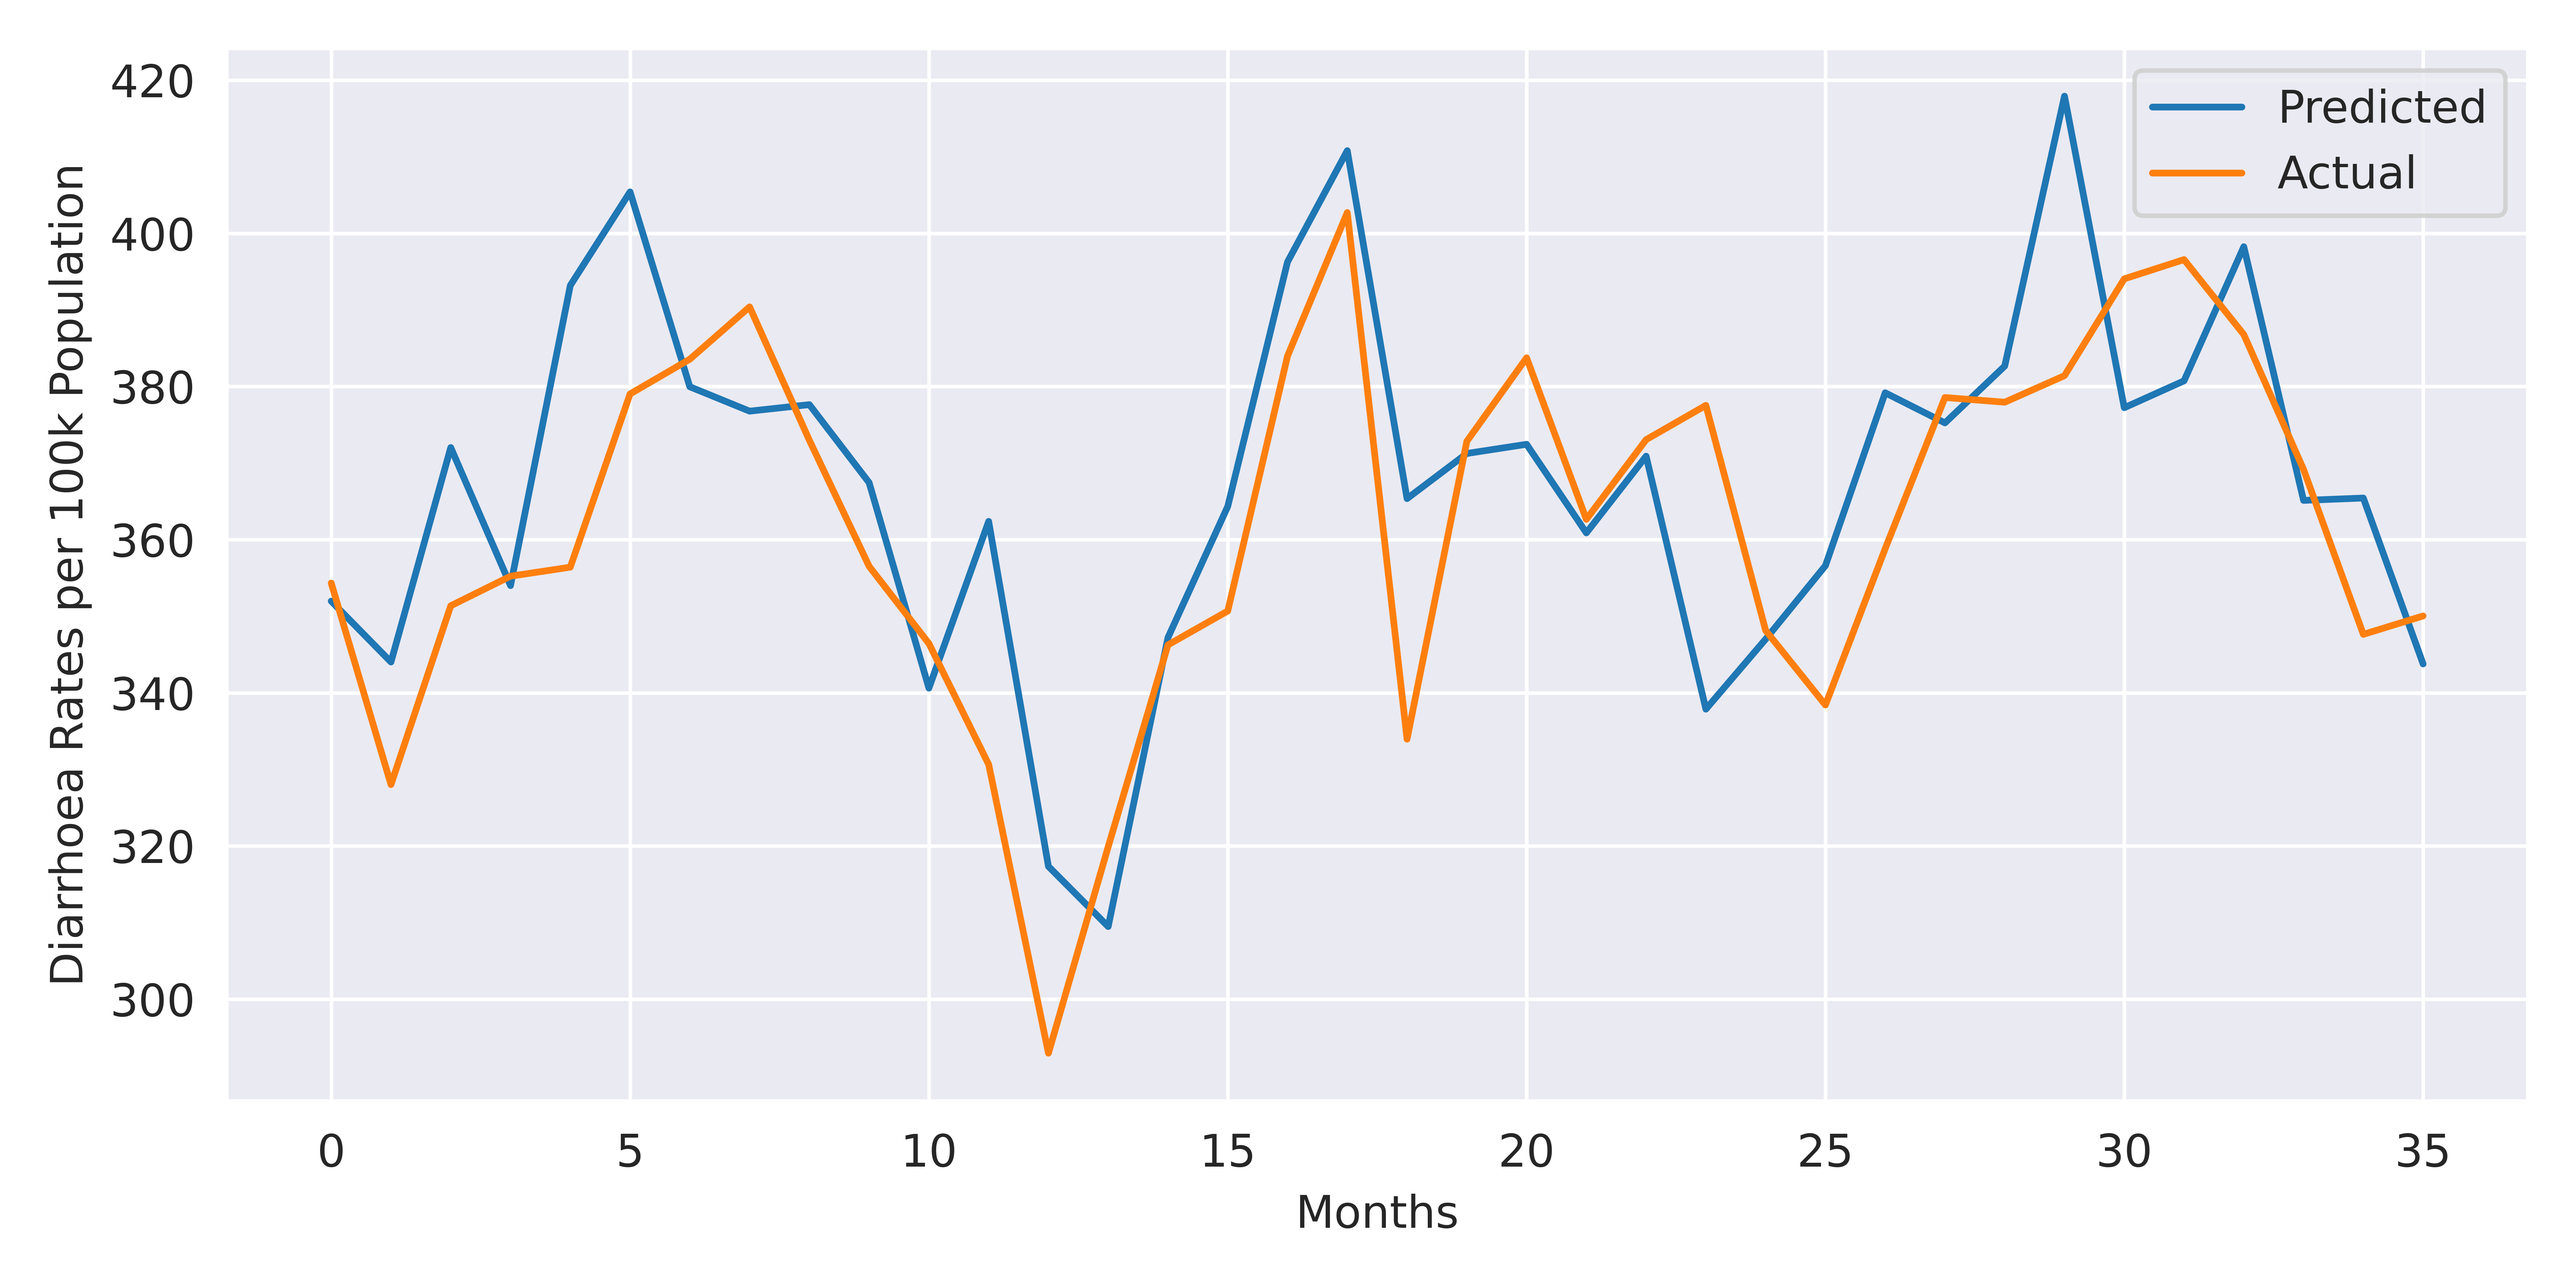
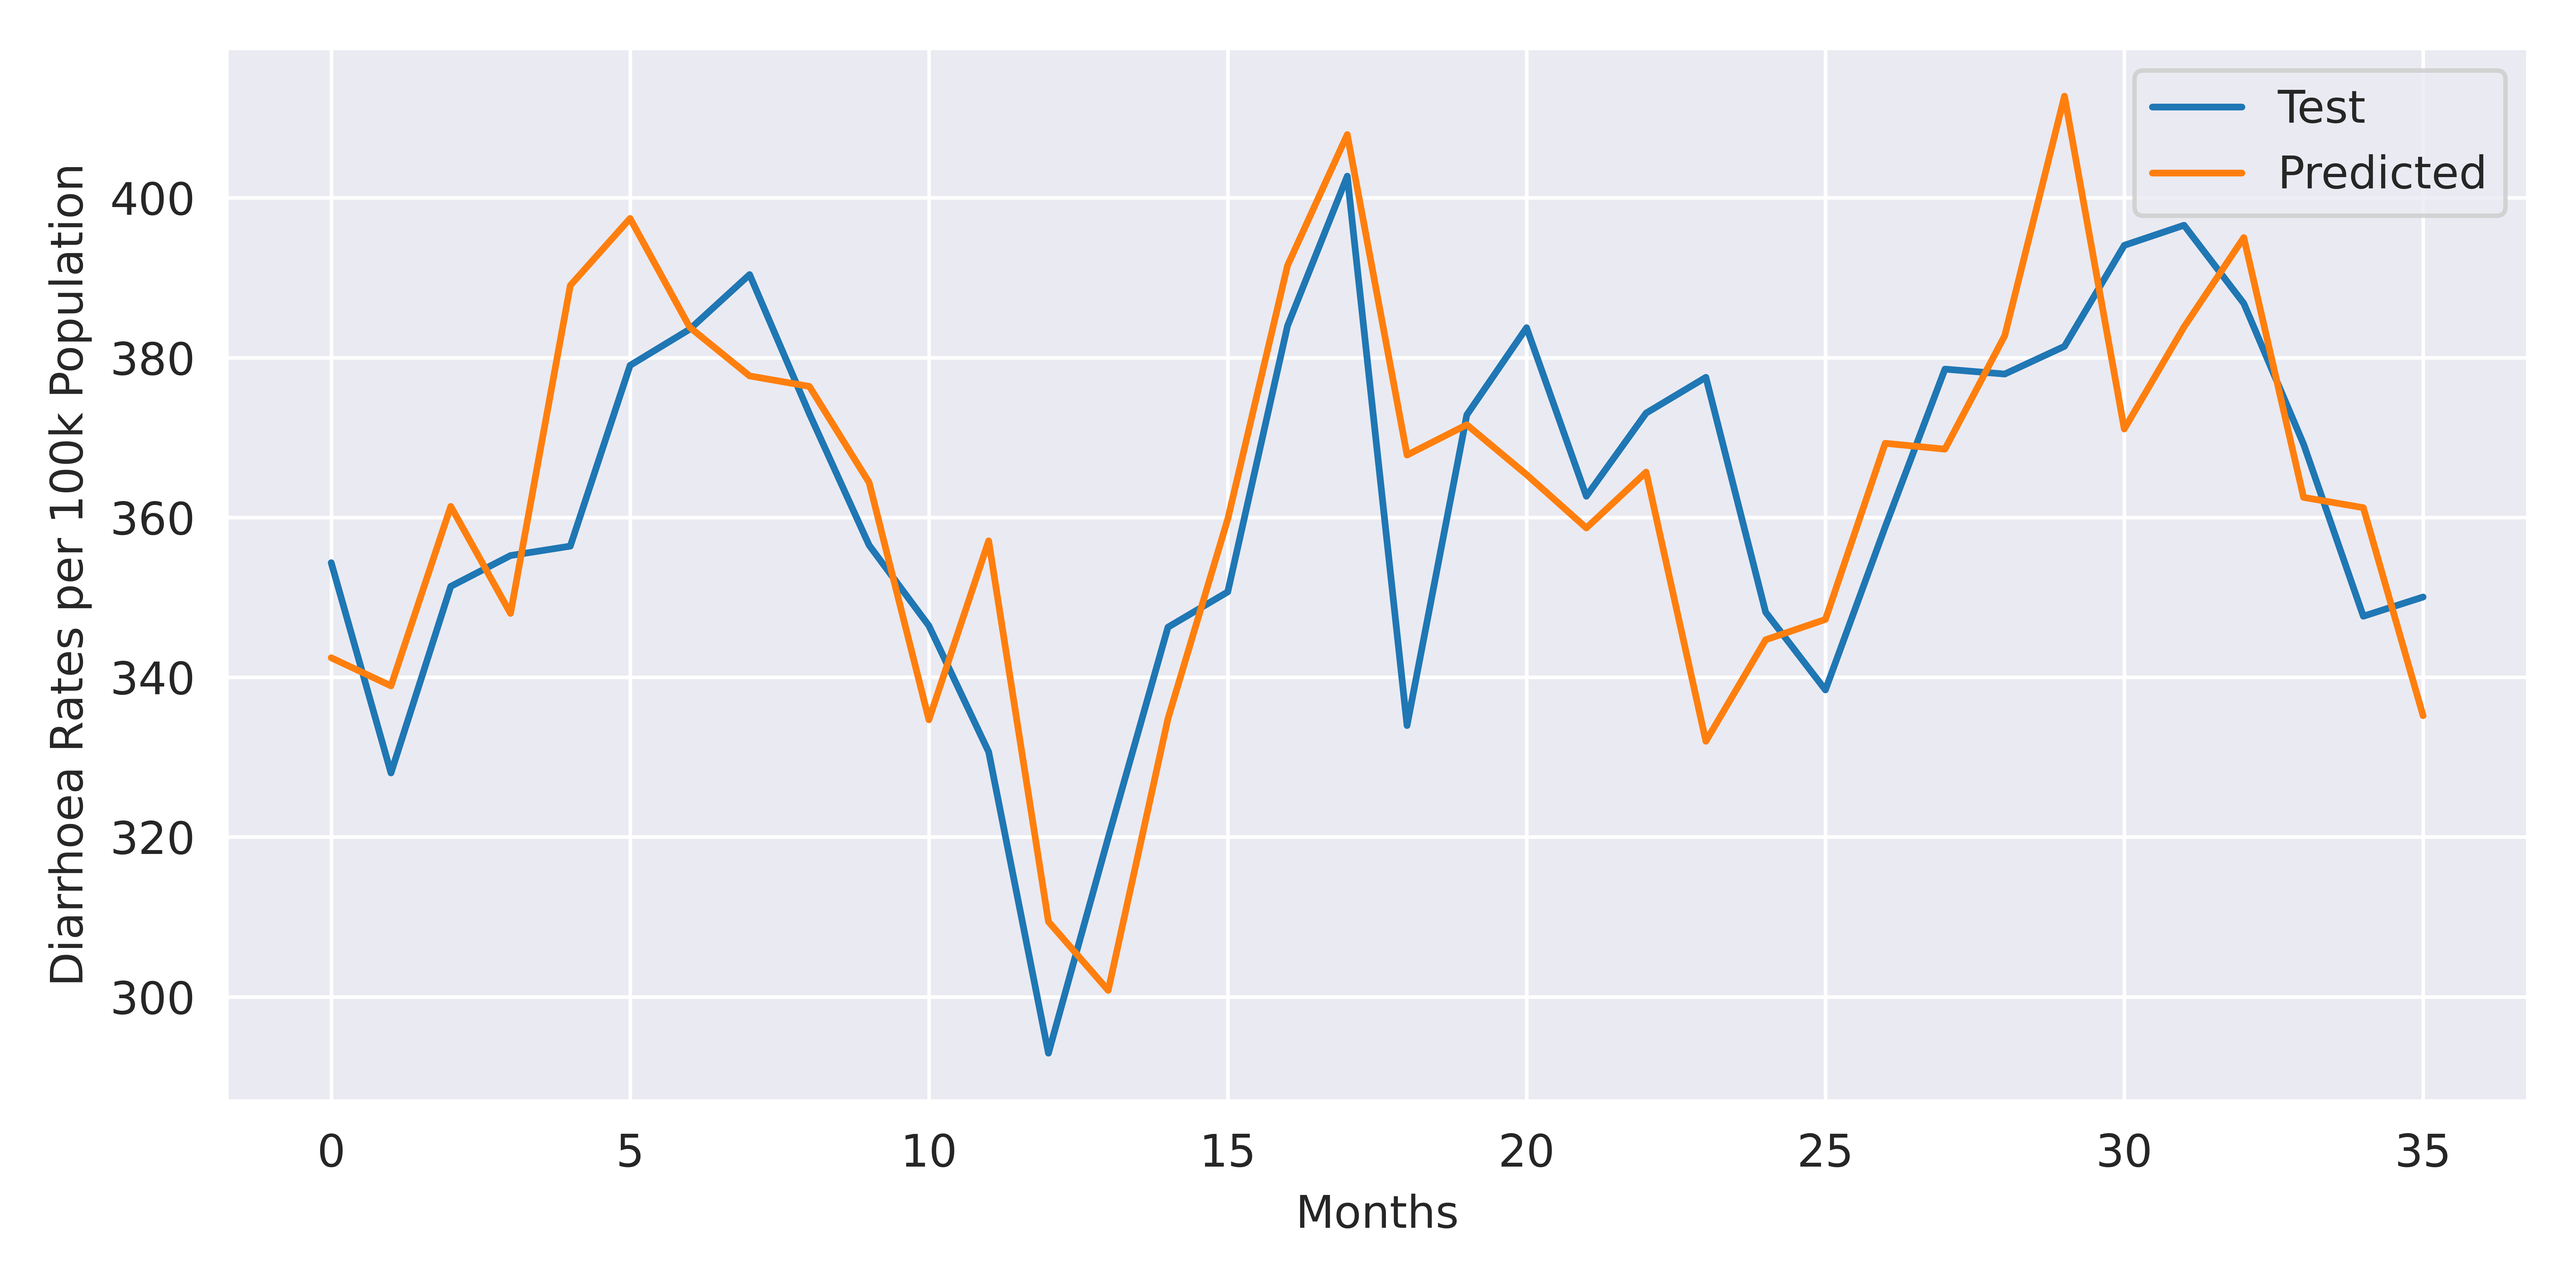
Improved SARIMA figures

diff --git a/thai_binh_multi_sarimax.py b/thai_binh_multi_sarimax.py
@@ -3,8 +3,12 @@ import warnings
 import itertools
 import numpy as np
 import matplotlib.pyplot as plt
+import seaborn as sns
 warnings.filterwarnings("ignore")
-plt.style.use('fivethirtyeight')
+plt.style.use('seaborn-darkgrid')
+plt.rcParams['figure.figsize'] = [8.0, 4.0]
+plt.rcParams['font.size'] = 10
+sns.set_style("darkgrid")
 
 import pandas as pd
 pd.set_option('display.expand_frame_repr', False)
@@ -27,7 +31,6 @@ matplotlib.rcParams['axes.labelsize'] = 14
 matplotlib.rcParams['xtick.labelsize'] = 12
 matplotlib.rcParams['ytick.labelsize'] = 12
 matplotlib.rcParams['text.color'] = 'k'
-import seaborn as sns
 
 from random import random
 
@@ -53,7 +56,7 @@ def evaluate_forecast(y, pred):
 
 ### Load the data
 #dfbase = pd.read_csv("Binh_050_full.csv", parse_dates=True)
-vietnam = pd.read_excel("C:\\Users\\james\\OneDrive\\Documents\\Vietnam_Project\\100k_anglicised.xlsx")
+vietnam = pd.read_excel("C:\\Users\\james\\OneDrive\\Documents\\Vietnam_Project\\climate-sensitive-diseases-private\\100k_anglicised.xlsx")
 vietnam = vietnam.loc[vietnam['year_month'] < '2014-1-1']
 dfbase = vietnam.loc[vietnam['province'] == "Thái Bình"]
 
@@ -179,11 +182,18 @@ print("Prediction: ", predictions)
 predorg = y[(numdata - numtest + nstep - 1):].copy() # changed df to y
 pred = y[(numdata - numtest + nstep - 1):].copy()
 pred['Diarrhoea_rates'] = predictions
+#pred.index = pd.to_datetime(pred.index)
 
-# plot the data
-train_y['Diarrhoea_rates'].plot()
-test_y['Diarrhoea_rates'].plot()
-pred['Diarrhoea_rates'].plot()
+
+# plot the data 
+plt.rcParams['figure.facecolor'] = '#00000000'
+train_y['Diarrhoea_rates'].plot(label='Train', color='tab:green')
+test_y['Diarrhoea_rates'].plot(label='Test', color='tab:blue')
+pred['Diarrhoea_rates'].plot(label='Predicted', color='tab:orange')
+plt.ylabel("Scaled Diarrhoea Rates per 100k Population")
+plt.xlabel("Months")
+plt.legend()
+plt.tight_layout()
 plt.show()
 
 # evaluate forecast
@@ -193,4 +203,31 @@ results = evaluate_forecast(predorg, pred)
 print(results)
 
 print("End prediction")
+
+# plot the data scaled
+
+# test_y = sc_out.inverse_transform(test_y[['Diarrhoea_rates']])
+# train_y = sc_out.inverse_transform(train_y[['Diarrhoea_rates']])
+# pred = sc_out.inverse_transform(pred[['Diarrhoea_rates']])
+
+# plot_list_test = [x for x in test_y]
+# plot_list_train = [x for x in train_y]
+
+
+# df_plot = pd.DataFrame()
+# df_plot['Date'] = ddatefull[:(numdata - numtest)]
+# df_plot = df.set_index("Date")
+# df_plot['Train'] = plot_list_train
+# df_plot['Train'] = train_y.tolist()
+
+
+# plt.rcParams['figure.facecolor'] = '#00000000'
+# train_y['Diarrhoea_rates'].plot(label='Train', color='tab:green')
+# test_y['Diarrhoea_rates'].plot(label='Test', color='tab:blue')
+# pred['Diarrhoea_rates'].plot(label='Predicted', color='tab:orange')
+# plt.ylabel("Diarrhoea Rates per 100k Population")
+# plt.xlabel("Date")
+# plt.legend()
+# plt.tight_layout()
+# plt.show()
 

diff --git a/thai_binh_sarima_best.py b/thai_binh_sarima_best.py
@@ -3,8 +3,12 @@ import warnings
 import itertools
 import numpy as np
 import matplotlib.pyplot as plt
+import seaborn as sns
 warnings.filterwarnings("ignore")
-plt.style.use('fivethirtyeight')
+plt.style.use('seaborn-darkgrid')
+plt.rcParams['figure.figsize'] = [8.0, 4.0]
+plt.rcParams['font.size'] = 10
+sns.set_style("darkgrid")
 
 import pandas as pd
 pd.set_option('display.expand_frame_repr', False)
@@ -162,10 +166,11 @@ pred = df[(numdata - numtest + nstep - 1):].copy()
 pred['Diarrhoea_rates'] = predictions
 
 # plot the data
-train['Diarrhoea_rates'].plot()
-test['Diarrhoea_rates'].plot()
-pred['Diarrhoea_rates'].plot()
+train['Diarrhoea_rates'].plot(label='Train', color='tab:green')
+test['Diarrhoea_rates'].plot(label='Test', color='tab:blue')
+pred['Diarrhoea_rates'].plot(label='Predicted', color='tab:orange')
 plt.ylabel("Diarrhoea Rates per 100k Population")
+plt.legend()
 plt.tight_layout()
 plt.show()
 
